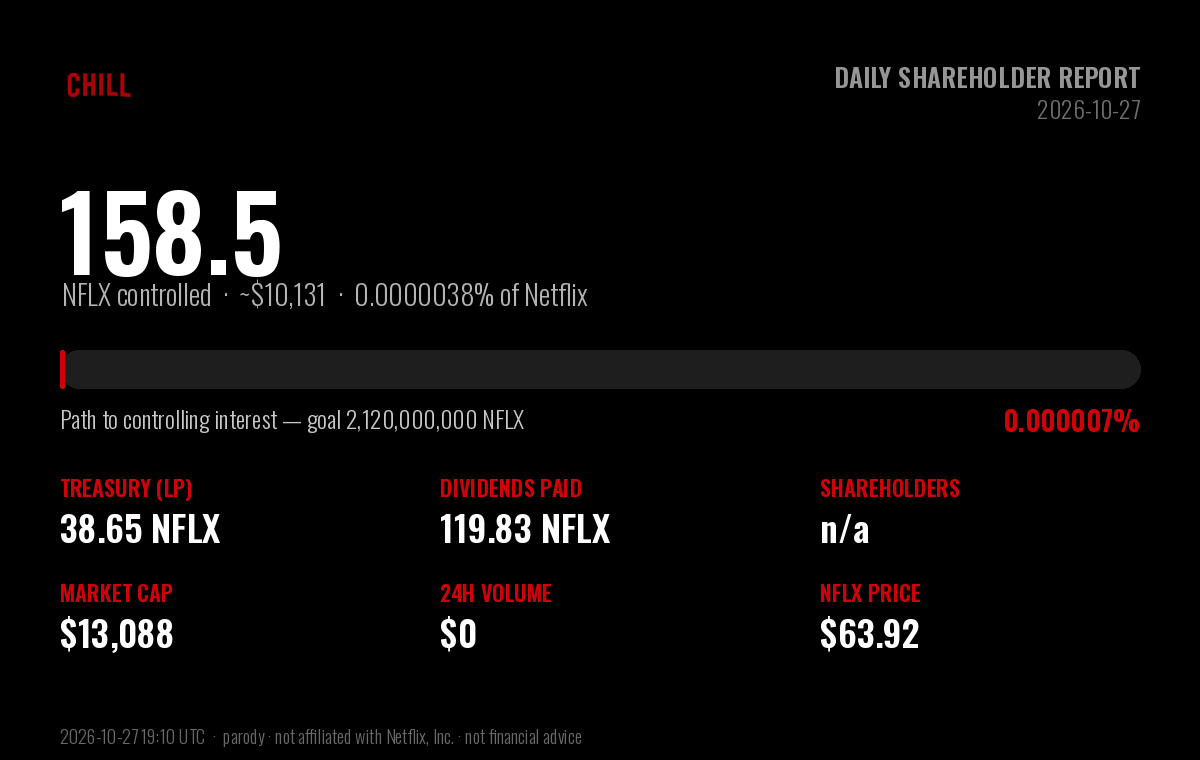
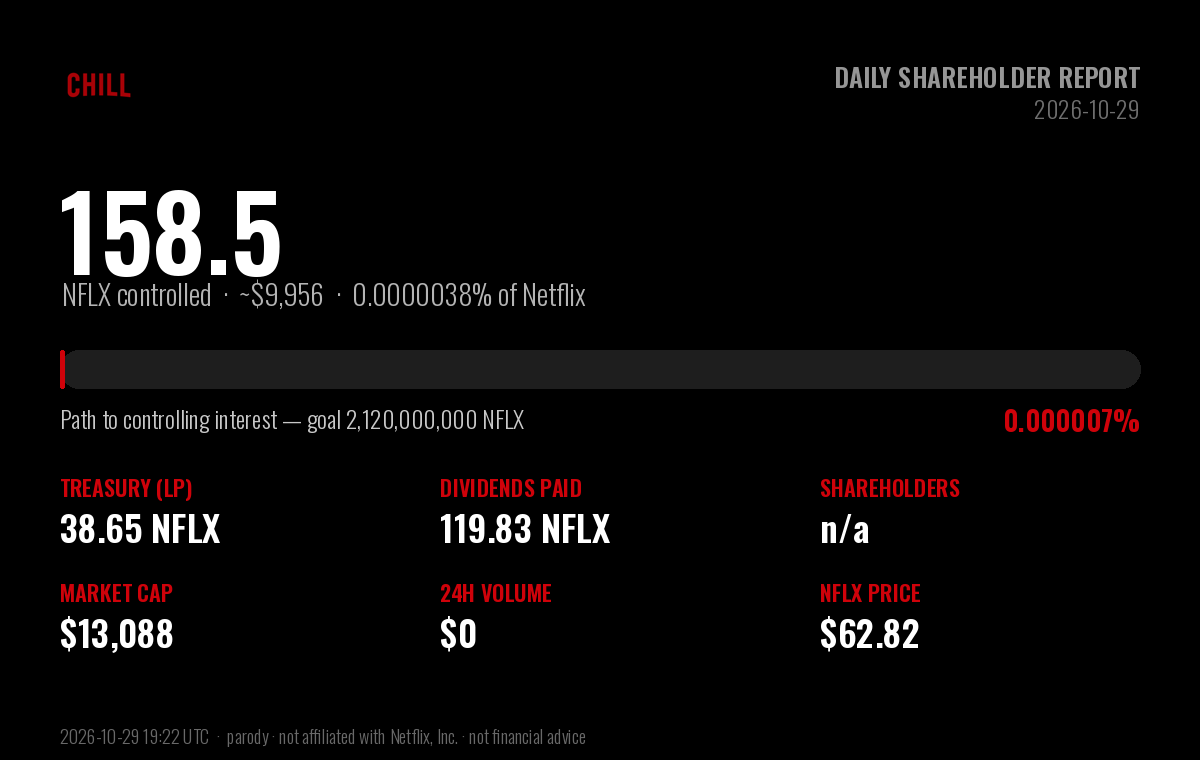
chore: daily $CHILL shareholder report (2026-10-29)

diff --git a/daily-holder-report/README.md b/daily-holder-report/README.md
@@ -1,6 +1,6 @@
 # $CHILL — Daily Shareholder Report
 
-### Netflix and Chill · Report to Shareholders · 2026-10-27
+### Netflix and Chill · Report to Shareholders · 2026-10-29
 
 > **Corporate objective:** acquire a controlling interest in Netflix (NFLX).
 > Netflix has **4,220,000,000** shares outstanding; a majority
@@ -13,7 +13,7 @@
 
 | Metric | Value |
 |---|---|
-| **NFLX under $CHILL control** | **158.48 NFLX** (~$10,131) |
+| **NFLX under $CHILL control** | **158.48 NFLX** (~$9,956) |
 | Stake in Netflix | 0.000003756% of shares outstanding |
 | Progress to controlling interest | 0.0000075% of 2,120,000,000 |
 | Shares remaining to majority | 2,119,999,842 NFLX |
@@ -22,9 +22,9 @@
 
 | Holding | NFLX | USD |
 |---|---|---|
-| Treasury (protocol-owned liquidity) | 38.65 | $2,471 |
-| Dividends distributed to shareholders | 119.83 | $7,660 |
-| **Total NFLX controlled** | **158.48** | **$10,131** |
+| Treasury (protocol-owned liquidity) | 38.65 | $2,428 |
+| Dividends distributed to shareholders | 119.83 | $7,528 |
+| **Total NFLX controlled** | **158.48** | **$9,956** |
 
 ## Last 24 hours
 
@@ -45,10 +45,10 @@
 | Shares outstanding ($CHILL) | 1,000,000,000 |
 | Market capitalization | $13,088 |
 | $CHILL price | $0.00001309 |
-| NFLX price | $63.92 |
-| Lifetime volume | 11,982.92 NFLX (~$765,993) |
+| NFLX price | $62.82 |
+| Lifetime volume | 11,982.92 NFLX (~$752,755) |
 | Lifetime transactions | 8,623 (4,818 buys / 3,805 sells) |
-| Days since IPO (launch) | 100 |
+| Days since IPO (launch) | 102 |
 
 ## Per-share metrics
 
@@ -59,7 +59,7 @@
 
 ---
 
-*Report generated 2026-10-27 19:10 UTC · block 99,476,243 · data via the Sentry-Robinhood
+*Report generated 2026-10-29 19:22 UTC · block 101,142,411 · data via the Sentry-Robinhood
 subgraph and Robinhood Chain explorer.*
 
 **Disclaimer:** $CHILL is an independent, community-driven **parody** token. It is
